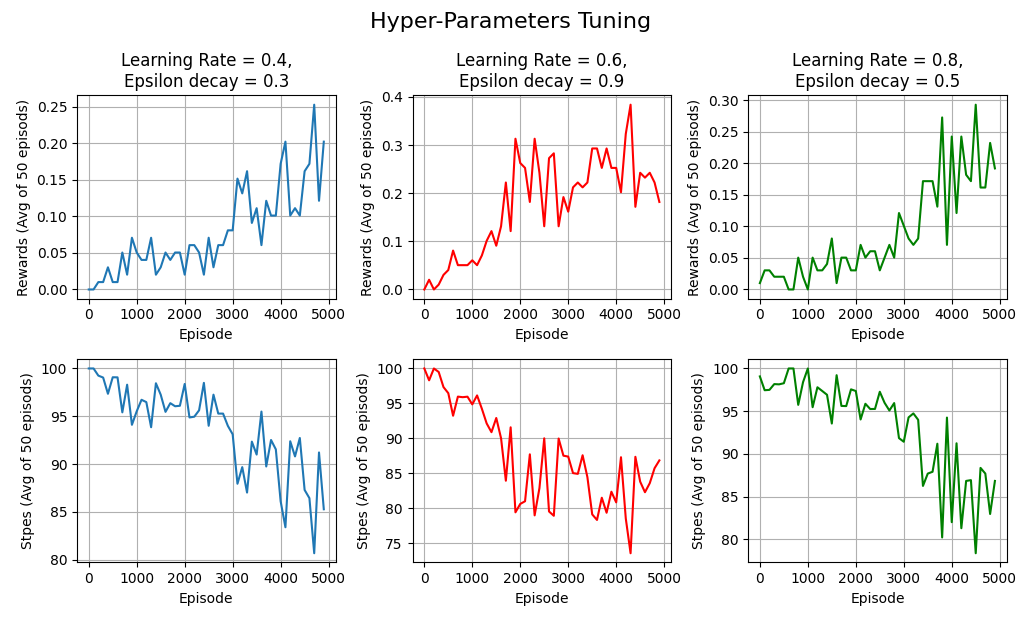
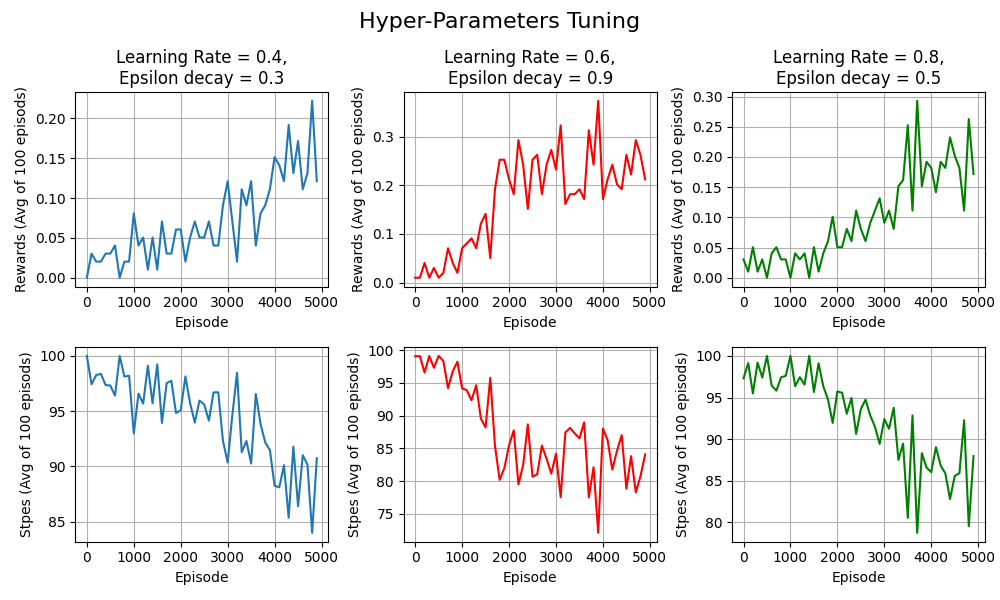
change title of average from 50 to 100

Changed region(s): [[0.0, 0.09, 1.0, 0.99], [0.341, 0.0, 0.651, 0.06]]

diff --git a/Assignment_1.py b/Assignment_1.py
@@ -133,42 +133,42 @@ def plot_results(reward_set1, reward_set2, reward_set3,
 
     plt.subplot(2, 3, 1)
     plt.title('Learning Rate = 0.4,\nEpsilon decay = 0.3')
-    plt.ylabel('Rewards (Avg of 50 episods)')
+    plt.ylabel('Rewards (Avg of 100 episods)')
     plt.xlabel('Episode')
     plt.plot(np.arange(0, n_episodes, group_size), average_over_groups(reward_set1))
     plt.grid()
 
     plt.subplot(2, 3, 4)
     #plt.title('Learning Rate = 0.8')
-    plt.ylabel('Stpes (Avg of 50 episods)')
+    plt.ylabel('Stpes (Avg of 100 episods)')
     plt.xlabel('Episode')
     plt.plot(np.arange(0, n_episodes, group_size), average_over_groups(steps_set1))
     plt.grid()
 
     plt.subplot(2, 3, 2)
     plt.title('Learning Rate = 0.6,\nEpsilon decay = 0.9')
-    plt.ylabel('Rewards (Avg of 50 episods)')
+    plt.ylabel('Rewards (Avg of 100 episods)')
     plt.xlabel('Episode')
     plt.plot(np.arange(0, n_episodes, group_size), average_over_groups(reward_set2), color='r')
     plt.grid()
 
     plt.subplot(2, 3, 5)
     #plt.title('Learning Rate = 0.5')
-    plt.ylabel('Stpes (Avg of 50 episods)')
+    plt.ylabel('Stpes (Avg of 100 episods)')
     plt.xlabel('Episode')
     plt.plot(np.arange(0, n_episodes, group_size), average_over_groups(steps_set2), color='r')
     plt.grid()
     
     plt.subplot(2, 3, 3)
     plt.title('Learning Rate = 0.8,\nEpsilon decay = 0.5')
-    plt.ylabel('Rewards (Avg of 50 episods)')
+    plt.ylabel('Rewards (Avg of 100 episods)')
     plt.xlabel('Episode')
     plt.plot(np.arange(0, n_episodes, group_size), average_over_groups(reward_set3), color='g')
     plt.grid()
 
     plt.subplot(2, 3, 6)
     #plt.title('Learning Rate = 0.2')
-    plt.ylabel('Stpes (Avg of 50 episods)')
+    plt.ylabel('Stpes (Avg of 100 episods)')
     plt.xlabel('Episode')
     plt.plot(np.arange(0, n_episodes, group_size), average_over_groups(steps_set3), color='g')
     plt.grid()
